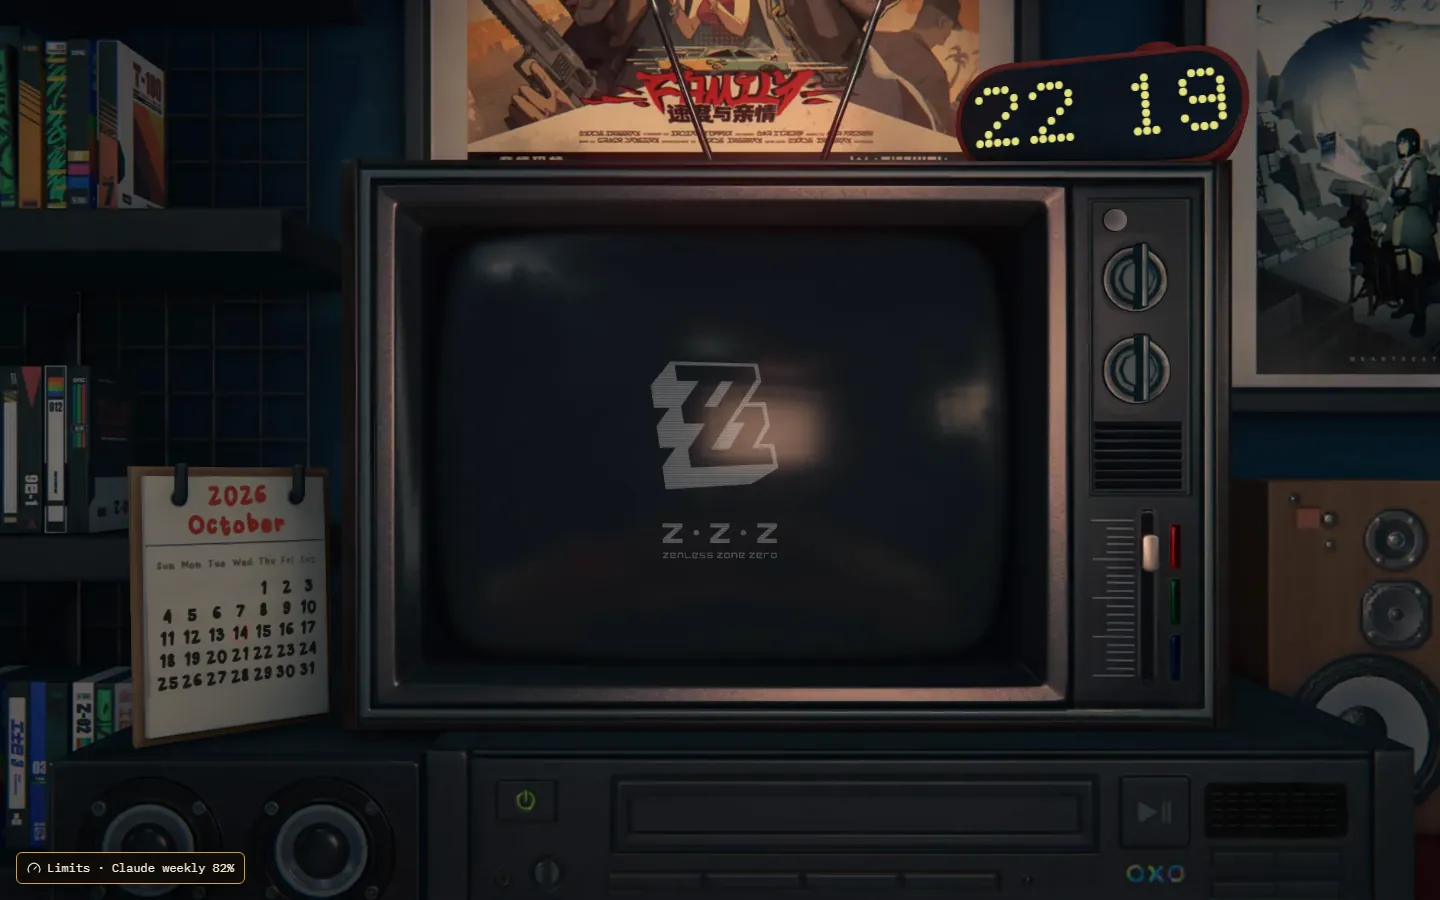
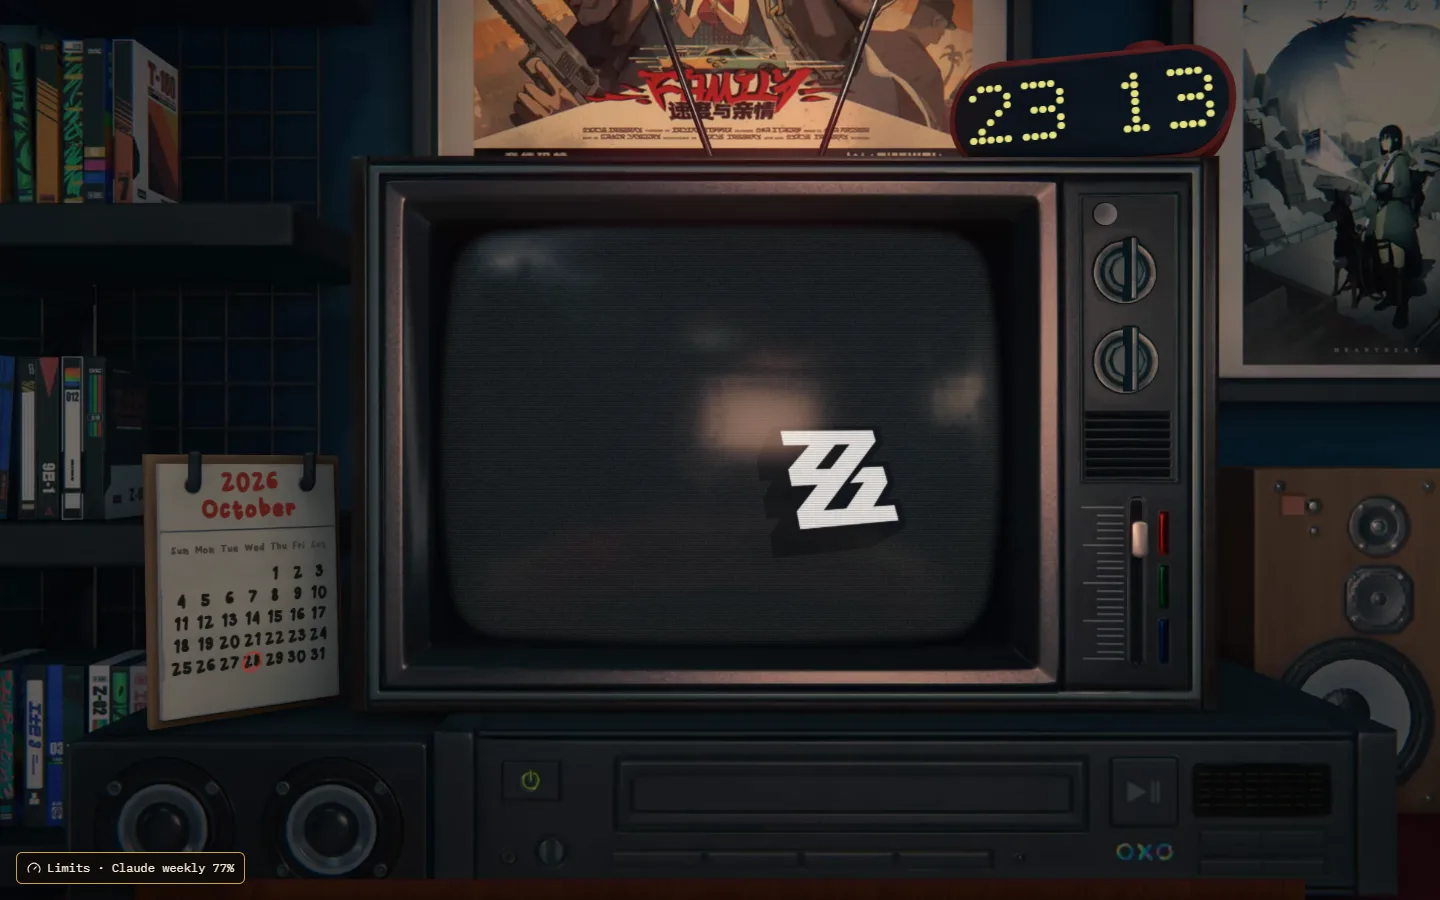
docs: retake README screenshots with shelf, room and tray states
Adds shelf screenshots for working, needs-you and room-closed, the room
while coding, reviewing and at the plan gate, and the tray remote; retakes
home, limits, the shelf, the status monitor, the room, workflow, debate and
themes for the Claude TV and current UI.

diff --git a/README.md b/README.md
@@ -12,7 +12,7 @@ Codex, Claude and Antigravity plan, build, review and merge as a team in the Age
 ![Platform: Windows first](https://img.shields.io/badge/platform-Windows%20first-0078d4)
 ![Runs locally](https://img.shields.io/badge/runs-127.0.0.1%20only-555)
 
-<img src="docs/screenshots/shelf.webp" alt="The Ascend Hub status shelf: four CRT televisions for Ascend Core, Ascend Vision, Codex CLI and Antigravity around the Ascend Hub poster" width="900" />
+<img src="docs/screenshots/shelf.webp" alt="The Ascend Hub shelf: four CRT televisions for Claude, Ascend Vision, Codex CLI and Antigravity around the Agent Room poster, which reads ALL QUIET, 3 of 3 agents ready" width="900" />
 
 </div>
 
@@ -159,11 +159,27 @@ The big CRT on the home screen is a working television. Click its upper knob to 
 
 ## Screenshots
 
+**Home**
+
 | | |
 | --- | --- |
-| <img src="docs/screenshots/home.webp" alt="Home screen with the retro CRT television, calendar and clock" /> **Home** | <img src="docs/screenshots/limits.webp" alt="The Limits panel open over the home screen, with 5-hour and weekly bars for Claude and Codex" /> **Subscription limits** |
-| <img src="docs/screenshots/tv-detail.webp" alt="The Codex CLI status monitor opened from its shelf TV" /> **Status monitor** | <img src="docs/screenshots/room-start.webp" alt="The Agent Room in the Dark wood theme: session history on the left, the 3D room with three agent desks and the prompt box in the middle, limits, agents and new-session options on the right" /> **Agent Room** |
-| <img src="docs/screenshots/room-workflow.webp" alt="The Workflow tab of a finished parallel session, with swim lanes and three tasks" /> **Workflow view** (two tasks ran in parallel) | <img src="docs/screenshots/room-debate.webp" alt="A finished debate with the judge's combined answer" /> **Debate verdict** |
+| <img src="docs/screenshots/home.webp" alt="Home screen with the retro CRT television, calendar and clock" /> **Home** | <img src="docs/screenshots/limits.webp" alt="The Limits panel open over the home screen, with 5-hour and weekly bars for Claude and Codex and a note that Antigravity does not report its limits" /> **Subscription limits** |
+
+**The shelf in each state.** The agent TVs and the Agent Room poster read the room; the Vision TV reads Ascend Core.
+
+| | |
+| --- | --- |
+| <img src="docs/screenshots/shelf.webp" alt="All three agents idle: the agent TVs show a dozing mascot and the poster reads ALL QUIET, 3 of 3 agents ready. The Vision eye sits on Claude's TV." /> **All quiet** (the Vision eye sits on CH 01) | <img src="docs/screenshots/shelf-working.webp" alt="Claude's TV shows its mascot at work, Codex is idle and Antigravity shows a lost signal; the poster reads LIVE, CLAUDE · CODING, task 2/3 · Start, stop and reset · 4m" /> **Working** (Claude coding, Antigravity's CLI offline) |
+| <img src="docs/screenshots/shelf-needs-you.webp" alt="Codex's TV shows the stuck screen and the poster reads WAIT, CODEX · NEEDS YOU, approve the plan" /> **Needs you** (the orchestrator waits at the plan gate) | <img src="docs/screenshots/shelf-closed.webp" alt="All three agent TVs show a lost signal and the poster reads OFF, ROOM CLOSED, the room process is not running" /> **Room closed** |
+| <img src="docs/screenshots/tv-detail.webp" alt="Claude's status monitor opened from its shelf TV: Working, current activity task 2/3 · Start, stop and reset, with Refresh and Copy status buttons" /> **Status monitor** (click any shelf TV) | <img src="docs/screenshots/tray-remote.webp" alt="The tray remote in three states: Claude coding with a progress bar and the ON AIR light, Codex needing you with the plan gate, and the room closed with every TV on no signal" /> **Tray remote** (Windows, from the launcher) |
+
+**The Agent Room at work**
+
+| | |
+| --- | --- |
+| <img src="docs/screenshots/room-start.webp" alt="The Agent Room in the Dark wood theme: session history on the left, the 3D room with three agent desks and the prompt box in the middle, new-session options, options, agents, queue and settings on the right" /> **Agent Room**, ready for a new session | <img src="docs/screenshots/room-coding.webp" alt="A running build: the stage bar at Build, Claude at its desk editing index.html, the plan with task 2 of 3 running, and the Now card saying Claude is working and Antigravity will review" /> **Coding** (task 2 of 3) |
+| <img src="docs/screenshots/room-review.webp" alt="The same build with Antigravity reviewing task 2 at its desk while Claude waits" /> **Review** | <img src="docs/screenshots/room-gate.webp" alt="The build stopped at the plan gate: the Now card says NEEDS YOU, approve the plan, with the three planned tasks below" /> **Plan gate** (needs you) |
+| <img src="docs/screenshots/room-workflow.webp" alt="The Workflow tab of a finished session: run totals, stage timings, a swim lane per agent and three finished tasks with their checks" /> **Workflow view** | <img src="docs/screenshots/room-debate.webp" alt="A finished debate with the judge's combined answer: where the agents agree, where they disagree, and the open question" /> **Debate verdict** |
 
 <p align="center">
 <img src="docs/screenshots/room-themes.webp" alt="The same finished session in six themes: Sky, Lime, Retro SaaS, BrutAdmin, Brutstack and Neoflux" width="900" /><br/>

diff --git a/ASCEND_HANDOFF.md b/ASCEND_HANDOFF.md
@@ -180,6 +180,8 @@ Latest (2026-10-27, poster entrance): the centre shelf poster is now a window in
 Latest (2026-10-27, room fixes): the floor lamp's bulb (`app/room/deck/room.ts`) now sits inside the shade instead of poking out of its side; the radio in `public/models/room/props.json` moved to the front of the bookcase top (z -2.97) so it reads as resting on it; the prompt box (`BriefComposer` in `app/room/room-parts.tsx`, styles in `app/room/room.css`) follows Claude's composer layout: rounded box with the text, + (attach) bottom left and the send arrow bottom right (a queue icon while a session runs), the kind of work and Schedule on a line under it. tsc, eslint, room+hub 283/283, tsx 92/92; checked live on 5176.
 Latest (2026-10-27, shelf top rail): `app/page.tsx` no longer draws the top wooden rail (`.shelf-rail-h.top`) on the first shelf row, so the TV scene's deck sits straight on the shelf; later rows keep it as their divider. tsc and room+hub 283/283; checked live on 5176.
 Latest (2026-10-27, tray remote and Hub on demand; spec `docs/superpowers/specs/2026-10-27-tray-remote-design.md`, plan `docs/superpowers/plans/2026-10-27-tray-remote.md`): the TV words moved to `scripts/agent-room/tv-words.mjs` (Hub's TS re-exports them); the room gained `GET /tray`, `POST /tray/task`, `POST /viewer` and `ASCEND_ROOM_IDLE_MS` (`scripts/agent-room/tray.mjs`); Hub's proxy marks requests with `x-ascend-viewer` and every page posts `/api/viewer` every 30 s (`components/ViewerHeartbeat.tsx`); `/room?draft=` fills the prompt box; `startAgentRoom` spawns nothing under `ASCEND_ROOM_EXTERNAL=1`; the launcher owns the room (`desktop/RoomHost.cs`), stops Hub after `hub.idleStopMinutes` without a viewer, and opens the tray remote (`desktop/TrayRemote.*`) on a left click. The installed launcher needs `Install-Ascend.ps1` again (or a restart from this checkout) to get it.
+Latest (2026-10-28, README screenshots): README screenshots were retaken at 1440x900 from a dev server with headless Edge driven by Playwright (the global `@playwright/cli` install's `playwright-core`). Shelf and room states (working, review, needs you, room closed, Antigravity offline) come from canned `/api/room` and `/api/room/sessions/current` replies served through page routes, built from a real finished session. New: `shelf-working`, `shelf-needs-you`, `shelf-closed`, `room-coding`, `room-review`, `room-gate`, `tray-remote` (rendered offscreen from `TrayRemote.xaml`). Retaken: `home`, `limits`, `shelf`, `tv-detail`, `room-start`, `room-workflow`, `room-debate`, `room-themes`. The TV channel shots (music, weather, YouTube, ZZZ, game, CD) were kept: that UI has not changed since they were taken.
+
 Latest (2026-10-28, shelf agent TVs): the home shelf's agent TVs now read the Agent Room instead of Core's feed. Ascend Core's TV became **CH 01 Claude** (`claude-cli`, iMac trim hue-rotated to Claude's coral in `app/globals.css`); CH 02 Vision still reads Core; CH 03 Codex and CH 04 Antigravity read the room. `components/status/room-shelf.ts` turns `/api/room` plus the current session into `ShelfServiceStatus` records via the deck's `tvStatus`, so the TVs, their videos and the status monitor are unchanged. `useRoomPeek` in `components/RoomWindow.tsx` is the one 5 s poll shared by the poster and the TVs. The room's own channel for Claude moved from CH 05 to CH 01 (`scripts/agent-room/tv-words.mjs`, tray XAML default). Checked live on a dev server against the running room: idle TVs, the Claude status monitor and its Refresh; working and needs-you states are covered by `tests/status/room-shelf.test.ts` only.
 
 Latest (2026-10-28, tray remote look): the tray remote got CRT TVs with mood faces, a lit shelf with brass plates, an ON AIR light, a Hub and room memory meter (`HubSessionConflict.TreeWorkingSet`), a task progress bar, today's session count, a builds-folder button, mouse-wheel stepping and Windows 11 rounded corners. It is still native WPF; three.js was ruled out because a browser engine in the tray would cost more memory than Hub on demand saves. A running launcher picks up the new look after a restart.
